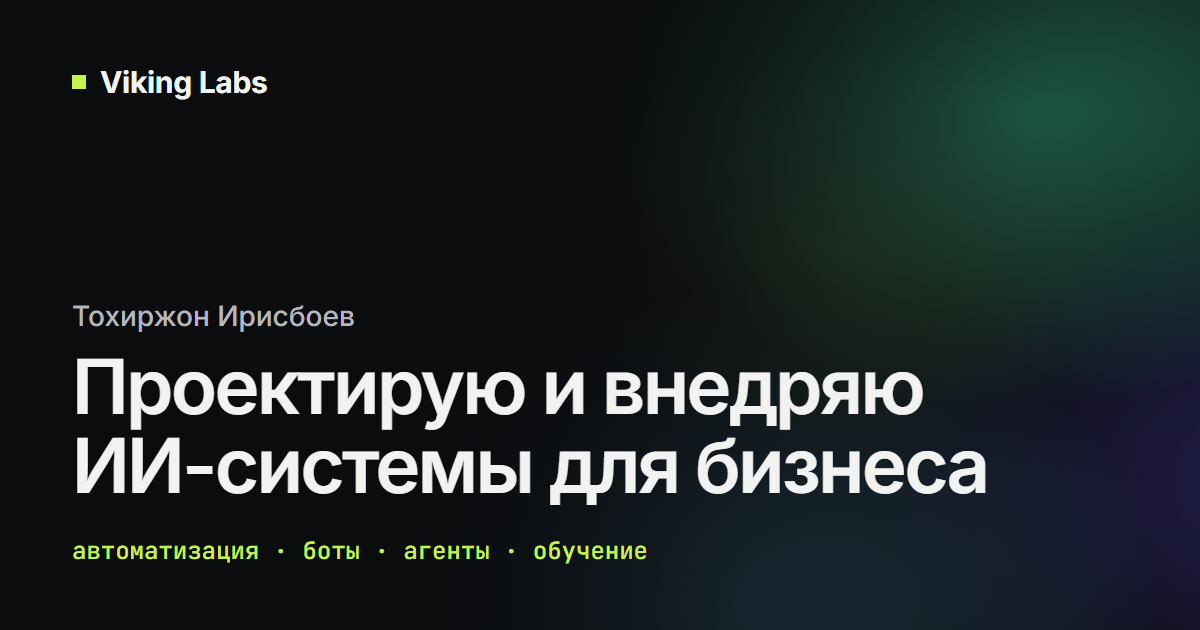
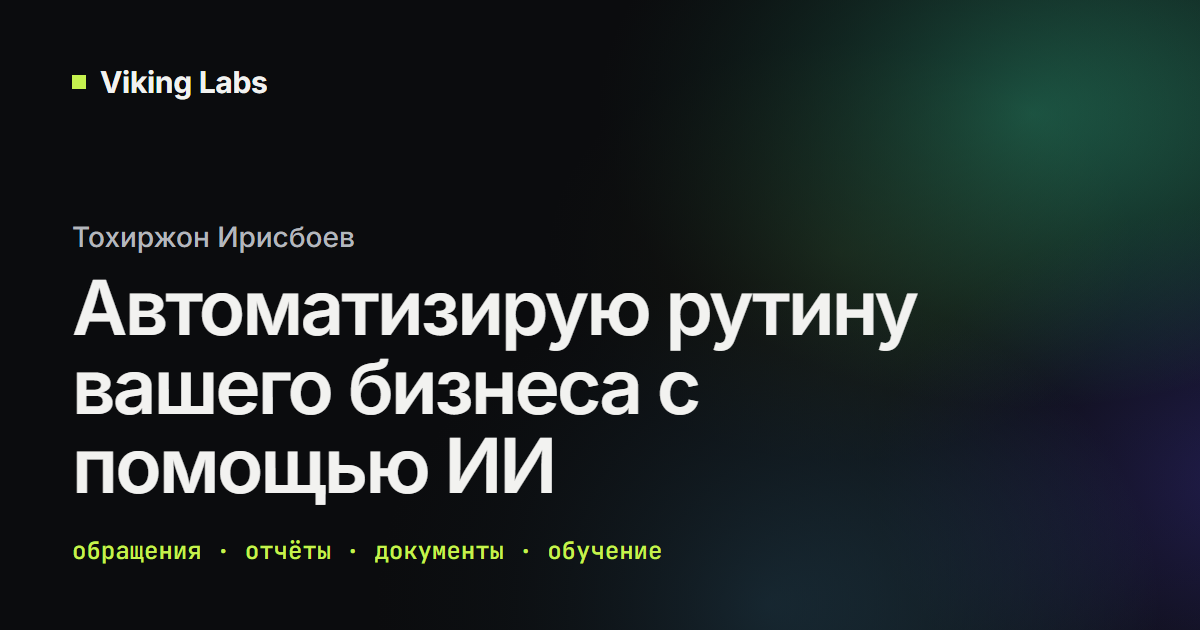
Превью и описание страницы под новый заголовок

Changed region(s): [[0.0617, 0.4222, 0.8325, 0.8143], [0.0617, 0.8444, 0.555, 0.9048], [0.0617, 0.3619, 0.3083, 0.3921]]

diff --git a/index.html b/index.html
@@ -4,9 +4,9 @@
 <meta charset="utf-8">
 <meta name="viewport" content="width=device-width, initial-scale=1">
 <title>Viking Labs — Тохиржон Ирисбоев</title>
-<meta name="description" content="Тохиржон Ирисбоев, Viking Labs. Проектирую и внедряю ИИ-системы для бизнеса: автоматизация процессов, боты, агенты, обучение.">
+<meta name="description" content="Тохиржон Ирисбоев, Viking Labs. Автоматизирую рутину вашего бизнеса с помощью ИИ: обращения клиентов, отчёты, документы, обучение сотрудников.">
 <meta property="og:title" content="Viking Labs — Тохиржон Ирисбоев">
-<meta property="og:description" content="Тохиржон Ирисбоев, Viking Labs. Проектирую и внедряю ИИ-системы для бизнеса: автоматизация процессов, боты, агенты, обучение.">
+<meta property="og:description" content="Тохиржон Ирисбоев, Viking Labs. Автоматизирую рутину вашего бизнеса с помощью ИИ: обращения клиентов, отчёты, документы, обучение сотрудников.">
 <meta property="og:type" content="website">
 <meta property="og:url" content="https://takhatheviking.github.io">
 <meta property="og:locale" content="ru_RU">
